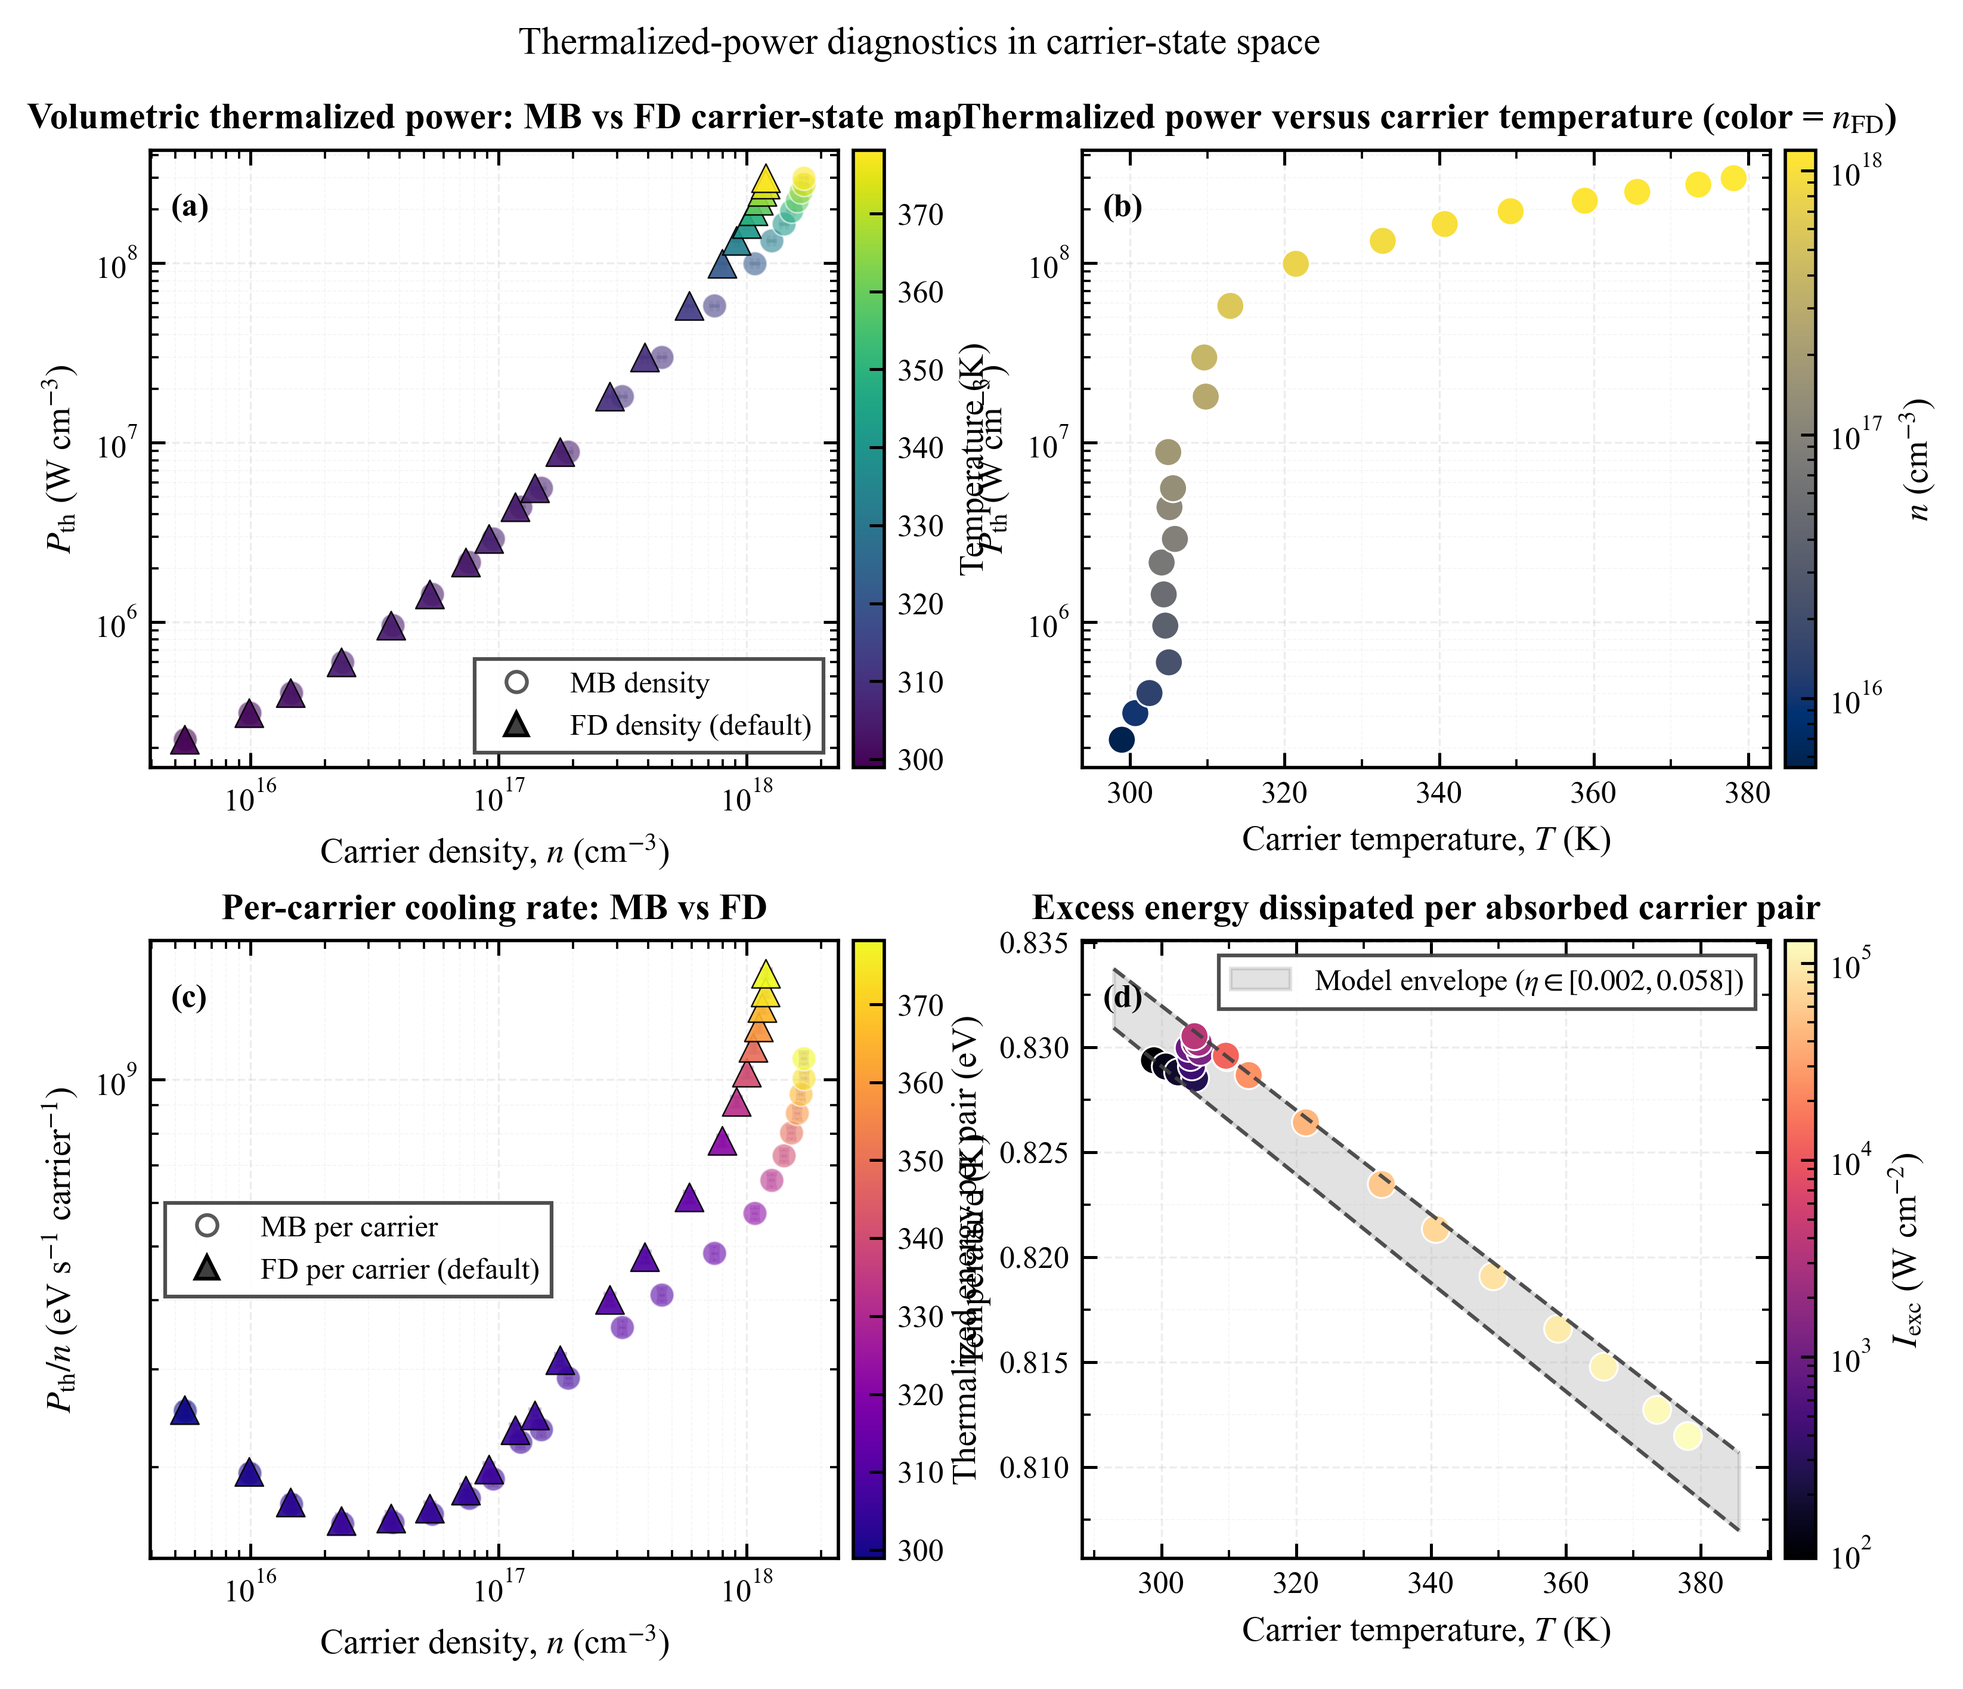
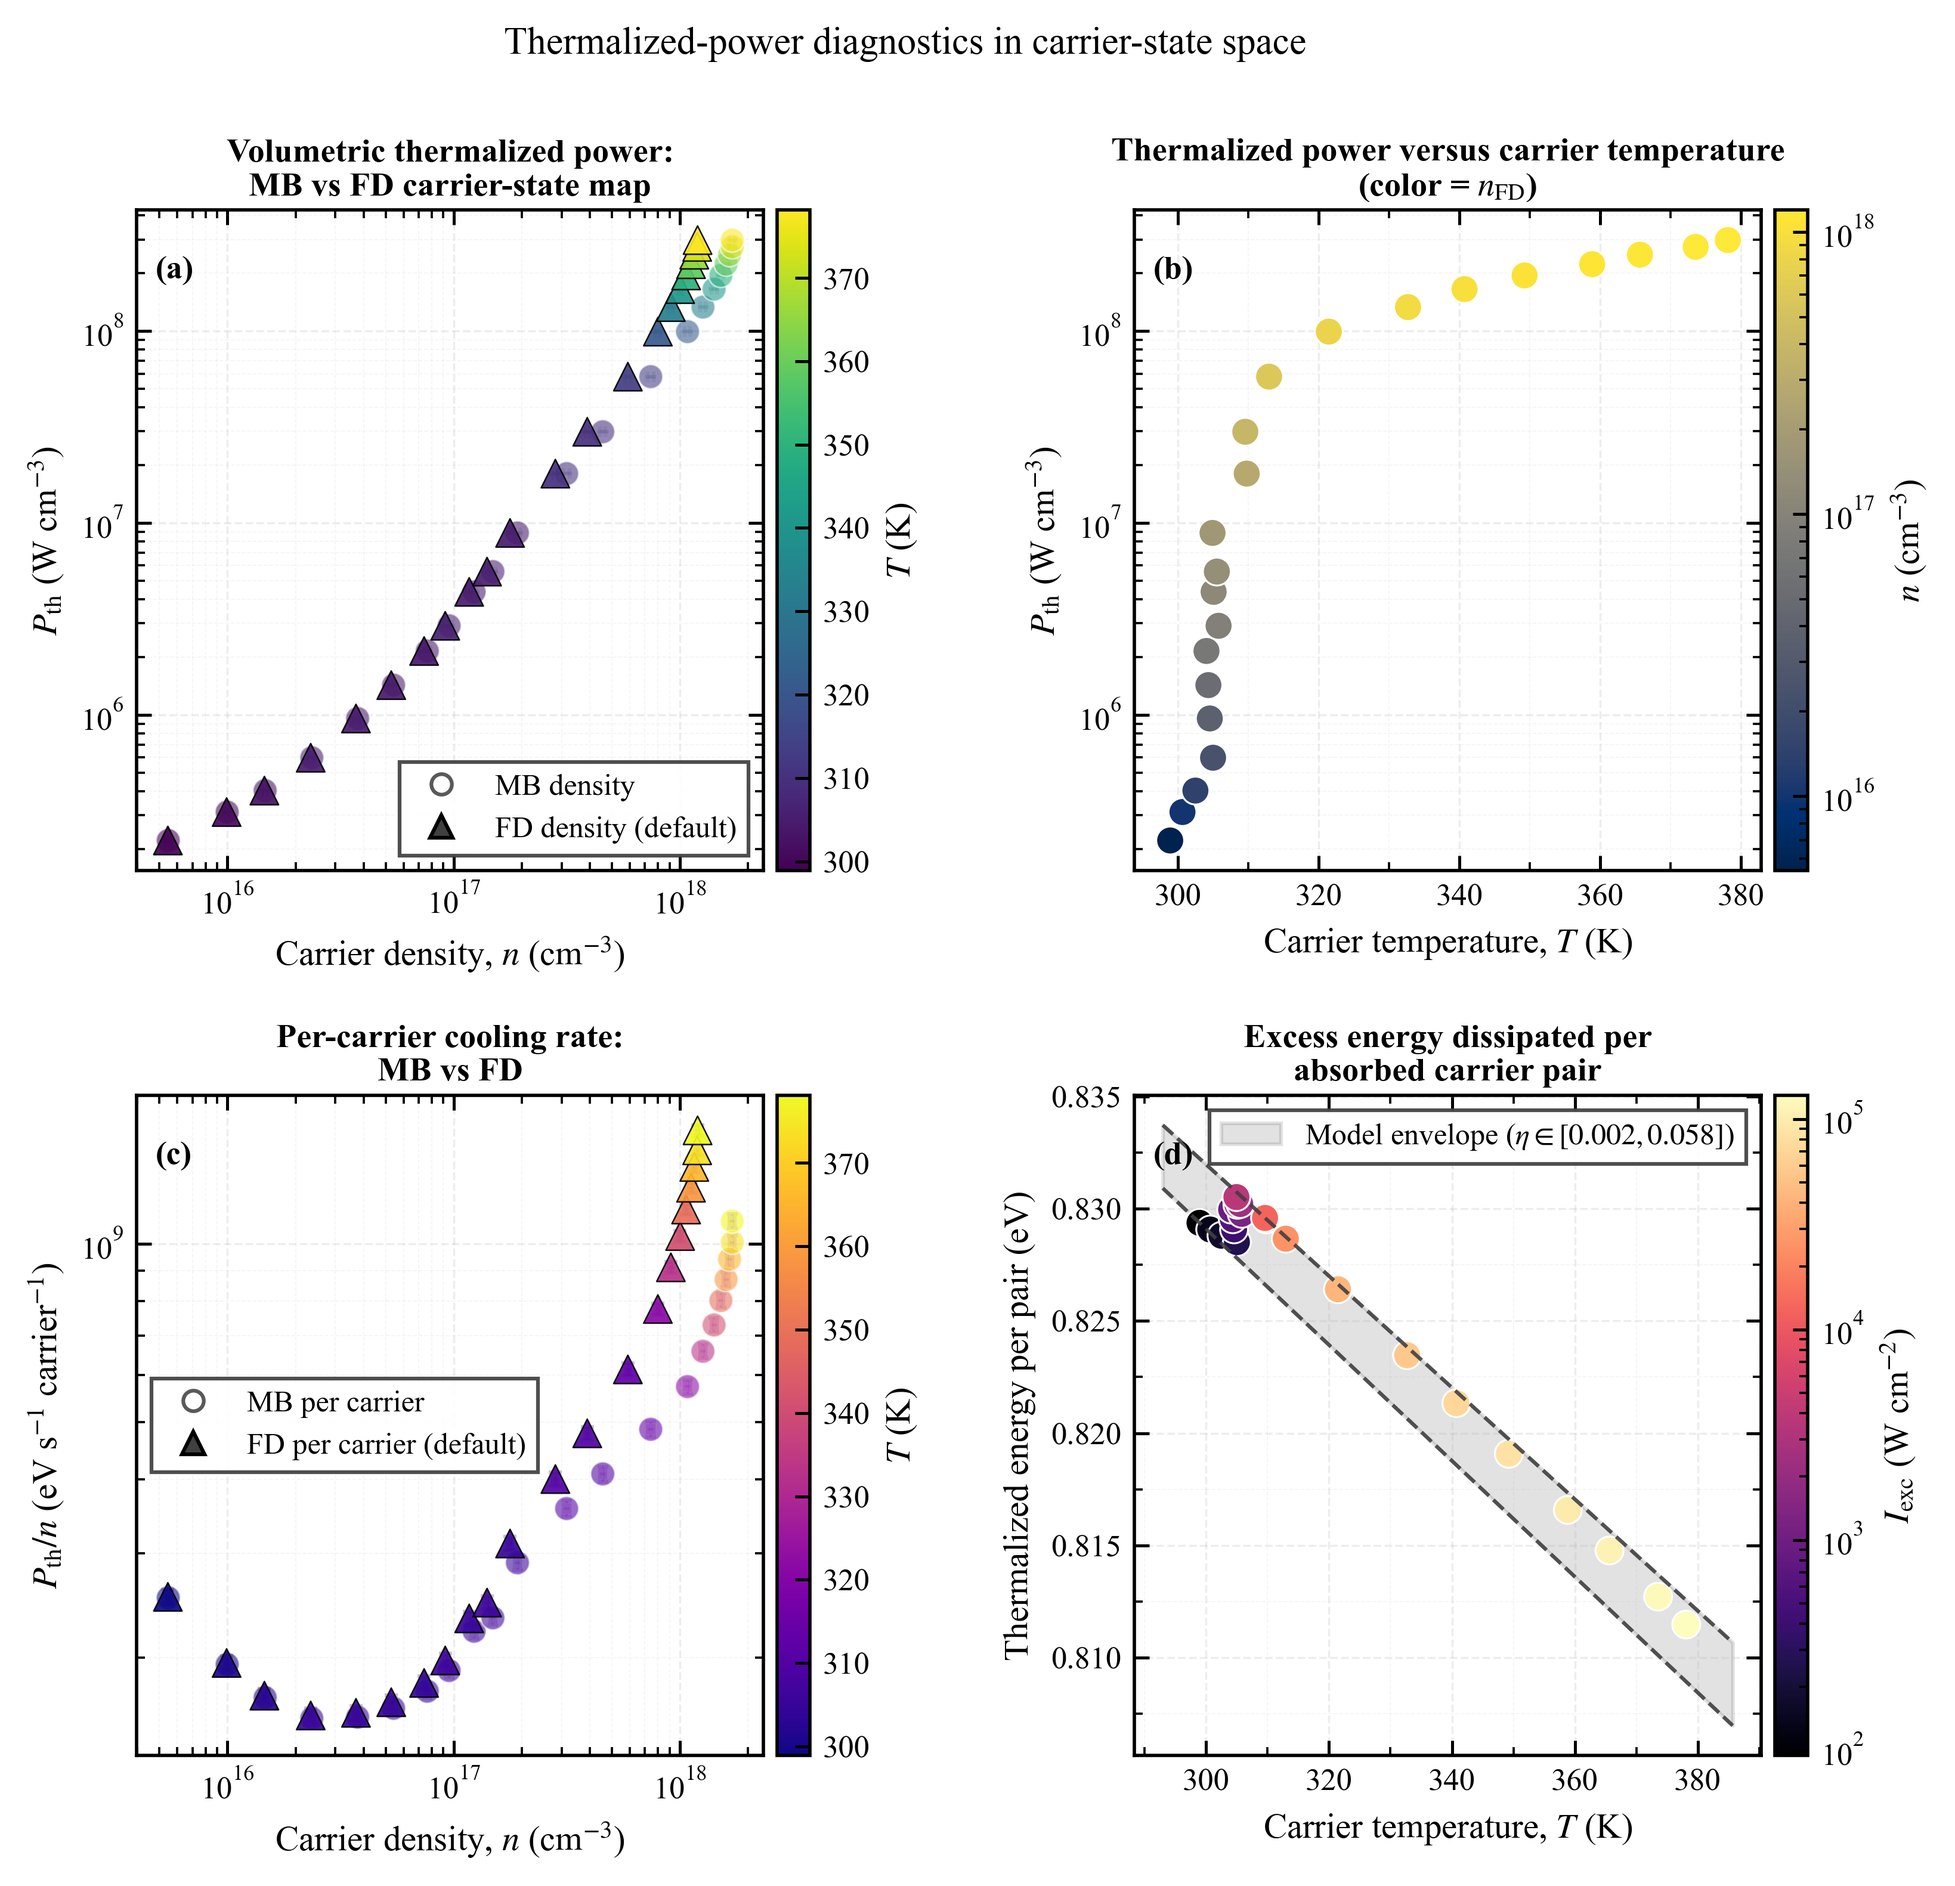
Adjusted the plot layout code in hot_carrier/plotting.py (line 41), hot_carrier/plotting.py (line 623), hot_carrier/plotting.py (line 1376), and hot_carrier/plotting.py (line 1621). The main changes were: more vertical spacing for stacked diagnostic panels, extra title padding for the residual plots
I verified it by regenerating the figures with .venv\Scripts\python.exe main.py. Updated outputs are mb_validity_limit.png, thermalized_power_diagnostics.png, and tsai_temperature_rise_vs_pth_density.png.

Changed region(s): [[0.0, 0.0621, 0.9957, 0.9944], [0.2489, 0.0, 0.6846, 0.0311], [0.1556, 0.2797, 0.28, 0.404]]

diff --git a/hot_carrier/plotting.py b/hot_carrier/plotting.py
@@ -38,9 +38,11 @@ PAGE_MEDIUM_FIG_HEIGHT_IN = 5.3
 PAGE_TALL_FIG_HEIGHT_IN = 6.2
 PAGE_GRID_FIG_HEIGHT_IN = 5.8
 PAGE_LARGE_GRID_FIG_HEIGHT_IN = 6.4
+PAGE_XL_GRID_FIG_HEIGHT_IN = 7.2
 
 AXES_LABEL_FONT_SIZE = 9.4
 TITLE_FONT_SIZE = 9.8
+MULTIPANEL_TITLE_FONT_SIZE = 9.0
 TICK_FONT_SIZE = 8.4
 LEGEND_FONT_SIZE = 8.0
 ANNOTATION_FONT_SIZE = 8.0
@@ -621,7 +623,7 @@ def plot_thermalized_power_diagnostics(results_df: pd.DataFrame, outpath: Path) 
     fig, axes = plt.subplots(
         2,
         2,
-        figsize=_page_single_column_figsize(PAGE_LARGE_GRID_FIG_HEIGHT_IN),
+        figsize=_page_single_column_figsize(PAGE_XL_GRID_FIG_HEIGHT_IN),
     )
     ax00, ax01 = axes[0]
     ax10, ax11 = axes[1]
@@ -687,7 +689,11 @@ def plot_thermalized_power_diagnostics(results_df: pd.DataFrame, outpath: Path) 
     style_axes(ax00, logx=True, logy=True)
     ax00.set_xlabel(r"Carrier density, $n$ (cm$^{-3}$)")
     ax00.set_ylabel(r"$P_{\mathrm{th}}$ (W cm$^{-3}$)")
-    ax00.set_title(r"Volumetric thermalized power: MB vs FD carrier-state map")
+    ax00.set_title(
+        "Volumetric thermalized power:\nMB vs FD carrier-state map",
+        fontsize=MULTIPANEL_TITLE_FONT_SIZE,
+        pad=4.0,
+    )
     ax00.legend(
         handles=[
             Line2D(
@@ -714,8 +720,13 @@ def plot_thermalized_power_diagnostics(results_df: pd.DataFrame, outpath: Path) 
         loc="best",
         fontsize=LEGEND_FONT_SIZE,
     )
-    cbar00 = fig.colorbar(cm.ScalarMappable(norm=temp_norm, cmap="viridis"), ax=ax00, pad=0.02, fraction=0.05)
-    _style_colorbar(cbar00, "Temperature (K)")
+    cbar00 = fig.colorbar(
+        cm.ScalarMappable(norm=temp_norm, cmap="viridis"),
+        ax=ax00,
+        pad=0.02,
+        fraction=0.05,
+    )
+    _style_colorbar(cbar00, r"$T$ (K)")
     _add_panel_label(ax00, "(a)")
 
     n_default = n_fd_cm3 if default_model == "fd" else n_mb_cm3
@@ -749,7 +760,11 @@ def plot_thermalized_power_diagnostics(results_df: pd.DataFrame, outpath: Path) 
     ax01.set_xlabel("Carrier temperature, $T$ (K)")
     ax01.set_ylabel(r"$P_{\mathrm{th}}$ (W cm$^{-3}$)")
     ax01.set_title(
-        rf"Thermalized power versus carrier temperature (color = $n_{{\mathrm{{{default_model.upper()}}}}}$)"
+        rf"Thermalized power versus carrier temperature"
+        "\n"
+        rf"(color = $n_{{\mathrm{{{default_model.upper()}}}}}$)",
+        fontsize=MULTIPANEL_TITLE_FONT_SIZE,
+        pad=4.0,
     )
     cbar01 = fig.colorbar(s01, ax=ax01, pad=0.02, fraction=0.05)
     _style_colorbar(cbar01, r"$n$ (cm$^{-3}$)")
@@ -816,7 +831,11 @@ def plot_thermalized_power_diagnostics(results_df: pd.DataFrame, outpath: Path) 
     style_axes(ax10, logx=True, logy=True)
     ax10.set_xlabel(r"Carrier density, $n$ (cm$^{-3}$)")
     ax10.set_ylabel(r"$P_{\mathrm{th}}/n$ (eV s$^{-1}$ carrier$^{-1}$)")
-    ax10.set_title(r"Per-carrier cooling rate: MB vs FD")
+    ax10.set_title(
+        "Per-carrier cooling rate:\nMB vs FD",
+        fontsize=MULTIPANEL_TITLE_FONT_SIZE,
+        pad=4.0,
+    )
     ax10.legend(
         handles=[
             Line2D(
@@ -843,8 +862,13 @@ def plot_thermalized_power_diagnostics(results_df: pd.DataFrame, outpath: Path) 
         loc="best",
         fontsize=LEGEND_FONT_SIZE,
     )
-    cbar10 = fig.colorbar(cm.ScalarMappable(norm=temp_norm, cmap="plasma"), ax=ax10, pad=0.02, fraction=0.05)
-    _style_colorbar(cbar10, "Temperature (K)")
+    cbar10 = fig.colorbar(
+        cm.ScalarMappable(norm=temp_norm, cmap="plasma"),
+        ax=ax10,
+        pad=0.02,
+        fraction=0.05,
+    )
+    _style_colorbar(cbar10, r"$T$ (K)")
     _add_panel_label(ax10, "(c)")
 
     intensity_norm = LogNorm(
@@ -919,7 +943,11 @@ def plot_thermalized_power_diagnostics(results_df: pd.DataFrame, outpath: Path) 
     style_axes(ax11)
     ax11.set_xlabel("Carrier temperature, $T$ (K)")
     ax11.set_ylabel(r"Thermalized energy per pair (eV)")
-    ax11.set_title(r"Excess energy dissipated per absorbed carrier pair")
+    ax11.set_title(
+        "Excess energy dissipated per\nabsorbed carrier pair",
+        fontsize=MULTIPANEL_TITLE_FONT_SIZE,
+        pad=4.0,
+    )
     ax11.legend(loc="best", fontsize=LEGEND_FONT_SIZE)
     cbar11 = fig.colorbar(s11, ax=ax11, pad=0.02, fraction=0.05)
     _style_colorbar(cbar11, r"$I_{\mathrm{exc}}$ (W cm$^{-2}$)")
@@ -927,10 +955,17 @@ def plot_thermalized_power_diagnostics(results_df: pd.DataFrame, outpath: Path) 
 
     fig.suptitle(
         r"Thermalized-power diagnostics in carrier-state space",
-        y=0.992,
+        y=0.985,
         fontsize=SUPTITLE_FONT_SIZE,
     )
-    fig.subplots_adjust(left=0.10, right=0.97, bottom=0.10, top=0.92, hspace=0.28, wspace=0.26)
+    fig.subplots_adjust(
+        left=0.10,
+        right=0.97,
+        bottom=0.09,
+        top=0.89,
+        hspace=0.34,
+        wspace=0.48,
+    )
     save_figure(fig, outpath)
     plt.close(fig)
 
@@ -1341,7 +1376,8 @@ def plot_mb_validity_limit(
     style_axes(ax0)
     ax0.set_ylabel(r"$\ln\!\left(\int_{E_g}^{\infty} I_{\mathrm{PC}}(E)\,\mathrm{d}E\right)$")
     ax0.set_title(
-        "Maxwell-Boltzmann validity limit from integrated generalized Planck law"
+        "Maxwell-Boltzmann validity limit from integrated generalized Planck law",
+        pad=6.0,
     )
     top_handles, top_labels = ax0.get_legend_handles_labels()
     top_handles.append(Line2D([0], [0], color="0.25", lw=1.2, ls="--"))
@@ -1358,7 +1394,7 @@ def plot_mb_validity_limit(
     style_axes(ax1, logy=True)
     ax1.set_xlabel(r"Reduced QFLS, $(\Delta\mu - E_g)/(k_B T)$")
     ax1.set_ylabel(r"$\Phi_{\mathrm{BE}}/\Phi_{\mathrm{MB}} - 1$")
-    ax1.set_title(r"Deviation from MB")
+    ax1.set_title(r"Deviation from MB", pad=3.0)
     ax1.legend(loc="best", fontsize=LEGEND_FONT_SIZE)
     ax1.set_xlim(x_left, x_right)
 
@@ -1384,7 +1420,7 @@ def plot_mb_validity_limit(
                 },
             )
 
-    fig.subplots_adjust(left=0.12, right=0.98, bottom=0.11, top=0.92, hspace=0.10)
+    fig.subplots_adjust(left=0.12, right=0.98, bottom=0.11, top=0.92, hspace=0.14)
     save_figure(fig, outpath)
     plt.close(fig)
 
@@ -1585,9 +1621,9 @@ def plot_tsai_temperature_rise_vs_pth_density(
         fig, (ax0, ax1) = plt.subplots(
             2,
             1,
-            figsize=_page_single_column_figsize(PAGE_MEDIUM_FIG_HEIGHT_IN),
+            figsize=_page_single_column_figsize(PAGE_TALL_FIG_HEIGHT_IN),
             sharex=True,
-            gridspec_kw={"height_ratios": [3.0, 1.5], "hspace": 0.08},
+            gridspec_kw={"height_ratios": [3.0, 1.5], "hspace": 0.12},
         )
         for x, y_exp, y_fd, y_mb in zip(pth, dT_exp, dT_fd, dT_mb, strict=True):
             ax0.plot([x, x], [y_exp, y_fd], color="#37474f", lw=0.9, alpha=0.25, zorder=1)
@@ -1636,7 +1672,10 @@ def plot_tsai_temperature_rise_vs_pth_density(
 
         style_axes(ax0, logx=True)
         ax0.set_ylabel(r"Carrier temperature rise, $T - T_L$ (K)")
-        ax0.set_title(r"Figure of merit: $T-T_L$ vs $P_{\mathrm{th}}$ with MB/FD Tsai closures")
+        ax0.set_title(
+            r"Figure of merit: $T-T_L$ vs $P_{\mathrm{th}}$ with MB/FD Tsai closures",
+            pad=6.0,
+        )
         ax0.legend(loc="best", fontsize=LEGEND_FONT_SIZE)
 
         delta_t_fd = dT_fd - dT_exp
@@ -1672,7 +1711,7 @@ def plot_tsai_temperature_rise_vs_pth_density(
         style_axes(ax1, logx=True)
         ax1.set_xlabel(r"$P_{\mathrm{th}}$ (W cm$^{-3}$)")
         ax1.set_ylabel(r"$\Delta T_{\mathrm{sim-exp}}$ (K)")
-        ax1.set_title(r"Residual diagnostic")
+        ax1.set_title(r"Residual diagnostic", pad=3.0)
         ax1.legend(loc="best", fontsize=LEGEND_FONT_SIZE)
 
         sm = cm.ScalarMappable(norm=n_norm, cmap=cmap)
@@ -1700,7 +1739,7 @@ def plot_tsai_temperature_rise_vs_pth_density(
             },
         )
 
-        fig.subplots_adjust(left=0.11, right=0.89, bottom=0.10, top=0.93, hspace=0.10)
+        fig.subplots_adjust(left=0.11, right=0.89, bottom=0.10, top=0.93, hspace=0.14)
         save_figure(fig, outpath)
         plt.close(fig)
         return
@@ -1748,9 +1787,9 @@ def plot_tsai_temperature_rise_vs_pth_density(
     fig, (ax0, ax1) = plt.subplots(
         2,
         1,
-        figsize=_page_single_column_figsize(PAGE_MEDIUM_FIG_HEIGHT_IN),
+        figsize=_page_single_column_figsize(PAGE_TALL_FIG_HEIGHT_IN),
         sharex=True,
-        gridspec_kw={"height_ratios": [3.0, 1.5], "hspace": 0.08},
+        gridspec_kw={"height_ratios": [3.0, 1.5], "hspace": 0.12},
     )
     for x, y0, y1 in zip(pth, dT_exp, dT_sim, strict=True):
         ax0.plot([x, x], [y0, y1], color="0.65", lw=0.8, alpha=0.35, zorder=1)
@@ -1784,7 +1823,10 @@ def plot_tsai_temperature_rise_vs_pth_density(
 
     style_axes(ax0, logx=True)
     ax0.set_ylabel(r"Carrier temperature rise, $T - T_L$ (K)")
-    ax0.set_title(r"Figure of merit: $T-T_L$ vs $P_{\mathrm{th}}$ colored by carrier density")
+    ax0.set_title(
+        r"Figure of merit: $T-T_L$ vs $P_{\mathrm{th}}$ colored by carrier density",
+        pad=6.0,
+    )
     ax0.legend(loc="best", fontsize=LEGEND_FONT_SIZE)
 
     delta_t = dT_sim - dT_exp
@@ -1804,7 +1846,7 @@ def plot_tsai_temperature_rise_vs_pth_density(
     style_axes(ax1, logx=True)
     ax1.set_xlabel(r"$P_{\mathrm{th}}$ (W cm$^{-3}$)")
     ax1.set_ylabel(r"$\Delta T_{\mathrm{sim-exp}}$ (K)")
-    ax1.set_title(r"Residual diagnostic")
+    ax1.set_title(r"Residual diagnostic", pad=3.0)
 
     sm = cm.ScalarMappable(norm=n_norm, cmap=cmap)
     cbar = fig.colorbar(sm, ax=[ax0, ax1], pad=0.02, fraction=0.04)
@@ -1828,6 +1870,6 @@ def plot_tsai_temperature_rise_vs_pth_density(
         },
     )
 
-    fig.subplots_adjust(left=0.11, right=0.89, bottom=0.10, top=0.93, hspace=0.10)
+    fig.subplots_adjust(left=0.11, right=0.89, bottom=0.10, top=0.93, hspace=0.14)
     save_figure(fig, outpath)
     plt.close(fig)
